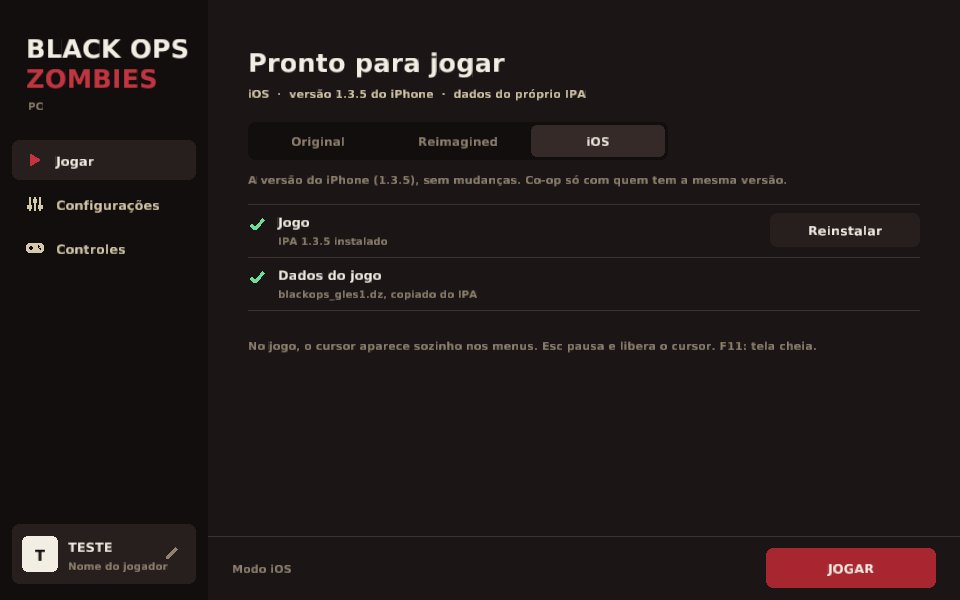
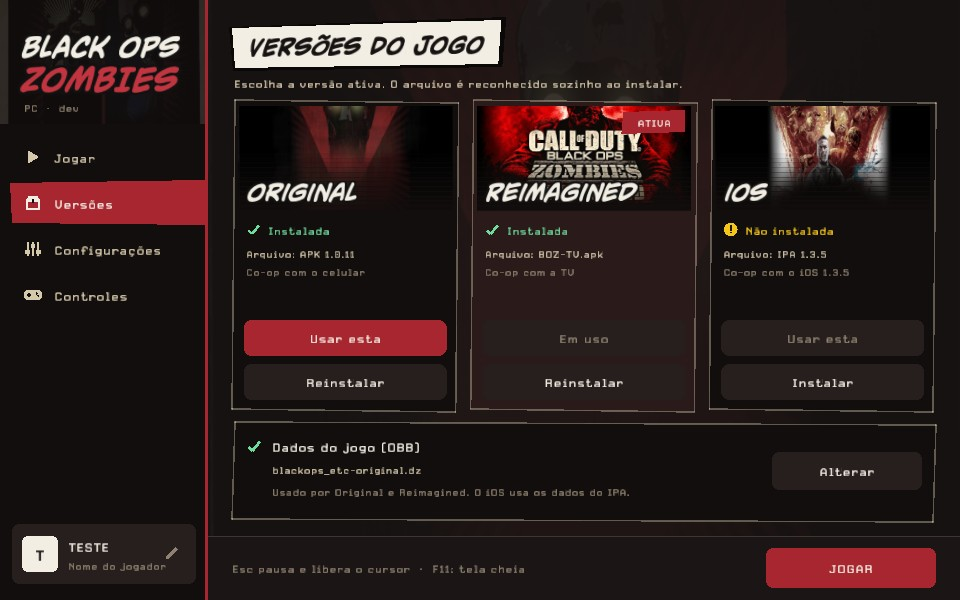
menus: voltar sai do lobby do coop e reconhecimento mais leve na TV
Remove a chave experimental do nome de sessão e atualiza a documentação para a v0.6.0.

diff --git a/tv/java/com/carlos/boz/Menus.java b/tv/java/com/carlos/boz/Menus.java
@@ -122,6 +122,8 @@ static boolean coopSession() { return s_CoopSession; }
             for (Screen s : m_Screens) if ("pausecoop".equals(s.id)) return s;
         return m_Current;
     }
+    private long m_RecNs;
+    private int m_RecCount;
     private boolean m_ReconnectDismissed;
     void allowReconnectConfirmation() { m_ReconnectDismissed = false; }
     void reconnectConfirmationChosen() {
@@ -303,7 +305,14 @@ static boolean coopSession() { return s_CoopSession; }
                 m_Bitmap.getPixels(px, 0, m_Bitmap.getWidth(), 0, 0, m_Bitmap.getWidth(), m_Bitmap.getHeight());
                 m_Px = px;
                 int[] gray = toGray(m_Bitmap);
+                long t0 = System.nanoTime();
                 Screen s = recognize(blur(gray));
+                m_RecNs += System.nanoTime() - t0;
+                if (++m_RecCount == 200) {
+                    Log.i(TAG, "Menus: reconhecimento médio " + (m_RecNs / 200000) + " us");
+                    m_RecCount = 0;
+                    m_RecNs = 0;
+                }
                 m_Main.post(() -> { setCurrent(s); capturePausePlayers(); });
             }, m_Copy);
         } catch (Exception e) {
@@ -385,10 +394,12 @@ static boolean coopSession() { return s_CoopSession; }
                 if (cx < 0 || cy < 0 || cx + pw > m_GW || cy + ph > m_GH) continue;
                 long sum = 0;
                 int k = 0;
-                for (int j = 0; j < ph; j++)
+                // para esta posição assim que ela não pode mais vencer: o mínimo final é o mesmo
+                final float limit = best * ref.length;
+                for (int j = 0; j < ph && sum < limit; j++)
                     for (int i = 0; i < pw; i++)
                         sum += Math.abs(g[(cy + j) * m_GW + cx + i] - ref[k++]);
-                best = Math.min(best, sum / (float) ref.length);
+                if (sum < limit) best = sum / (float) ref.length;
             }
         }
         return best;

diff --git a/tv/java/com/carlos/boz/Cursor.java b/tv/java/com/carlos/boz/Cursor.java
@@ -271,6 +271,10 @@ final class Cursor {
                     }
                     return true;
                 }
+                if ("cooplobby".equals(m_Menus.screenId()) || "coopvote".equals(m_Menus.screenId())) {
+                    if (down && repeat == 0) tapAt(285, 635);   // o lobby ignora a tecla de voltar: seta BACK
+                    return true;
+                }
                 if (down && repeat == 0) m_Menus.allowReconnectConfirmation();
                 if (m_SliderEdit) {          // B solta o slider em vez de voltar de tela
                     if (down && repeat == 0) endEdit();

diff --git a/src/emu_dynarmic.cpp b/src/emu_dynarmic.cpp
@@ -522,10 +522,6 @@ extern "C" void ret64(uint64_t value) {
     auto &r = current_jit().Regs();
     r[0] = static_cast<uint32_t>(value);
     r[1] = static_cast<uint32_t>(value >> 32);
-    /* Experimental (CODBOZ_SESSION_ZERO=1): BOZ formats its session name with "%s_%lu" and a 64-bit time on
-     * the stack, so %lu reads r3. On a real device that is 0 ("kino_0"); here it is leftover memory. */
-    static const bool session_zero = getenv("CODBOZ_SESSION_ZERO") != nullptr;
-    if (session_zero) r[3] = 0;
 }
 
 extern "C" void retf(float value) {

diff --git a/src/menus.c b/src/menus.c
@@ -1540,6 +1540,10 @@ bool menus_back(void) {
         input_tap(200, 633); /* the native RETURN */
         return true;
     }
+    if (strcmp(screen, "cooplobby") == 0 || strcmp(screen, "coopvote") == 0) {
+        input_tap(285, 635); /* the lobby ignores the back key: its BACK arrow */
+        return true;
+    }
     const struct style *s = style_of(screen);
     if (s && s->page) {
         for (int i = 0; i < g_target_count; ++i) {

diff --git a/README.pt-BR.md b/README.pt-BR.md
@@ -105,7 +105,7 @@ Jogue no **PC (Linux e Windows)** ou na **Android TV**, juntos no co-op, a parti
 1. Baixe em [**Releases**](https://github.com/chgmcontato/BOZ-Reimagined/releases/latest):
    - **Windows 10/11:** `codboz-pc-windows-x64.zip` (um `.exe`, sem DLLs extras)
    - **Linux:** `codboz-pc-linux-x86_64.tar.gz` (precisa do SDL2 e da glibc 2.38+)
-2. Abra. No launcher: **Install APK** (ou **Install IPA**) → **Choose** (Game data, o OBB) → **PLAY**. O launcher abre em inglês; troque para português em **Settings**.
+2. Abra. No launcher, abra a aba **Versões**: **Instalar** no cartão da versão (APK ou IPA) → **Selecionar** (OBB) → **JOGAR**. O launcher abre em inglês; troque para português em **Settings**.
 
 ```bash
 # Linux
@@ -143,7 +143,7 @@ Publique os dois pacotes na release `v<VERSION>` junto com o `SHA256SUMS.txt` (`
 
 ```bash
 # precisa de adb e xdelta3; TV com ADB pela rede ativado
-bash tv/instalar.sh <IP-da-TV> base.apk blackops_etc.dz boz-reimagined-tv-v0.4.xdelta
+bash tv/instalar.sh <IP-da-TV> base.apk blackops_etc.dz boz-reimagined-tv-v0.6.xdelta
 ```
 
 O patch só funciona sobre o APK original. Guia completo, incluindo co-op pelo ZeroTier, em [`tv/README.pt-BR.md`](tv/README.pt-BR.md).
@@ -215,6 +215,7 @@ de pause, T liga e desliga o timer. F11: tela cheia. F3: contador de FPS.
 <summary><b>Problemas conhecidos</b></summary>
 <br>
 
+- Co-op RE-JOIN: quem volta assiste como espectador até o próximo round, como no jogo; sem o host, o YES abre um lobby próprio.
 - Windows: testado no Wine (menus, uma partida de Call of the Dead, 60 fps); ainda não em Windows de verdade, co-op não testado lá.
 - Save & Quit → Continue não restaura o timer da partida.
 - Modo iOS: o primeiro clique depois da tela de título é ignorado (clique de novo); `s3eInetPton` ainda é um stub.

diff --git a/README.md b/README.md
@@ -105,7 +105,7 @@ Play on **PC (Linux & Windows)** or **Android TV**, together in co-op, from your
 1. Download from [**Releases**](https://github.com/chgmcontato/BOZ-Reimagined/releases/latest):
    - **Windows 10/11:** `codboz-pc-windows-x64.zip` (one `.exe`, no extra DLLs)
    - **Linux:** `codboz-pc-linux-x86_64.tar.gz` (needs SDL2 and glibc 2.38+)
-2. Run it. In the launcher: **Install APK** (or **Install IPA**) → **Choose** (Game data) → **PLAY**.
+2. Run it. In the launcher, open the **Versions** tab: **Install** on the version card (APK or IPA) → **Choose** (OBB) → **PLAY**.
 
 ```bash
 # Linux
@@ -143,7 +143,7 @@ Publish both archives in the release `v<VERSION>` together with `SHA256SUMS.txt`
 
 ```bash
 # needs adb and xdelta3; TV with ADB over network enabled
-bash tv/instalar.sh <TV-IP> base.apk blackops_etc.dz boz-reimagined-tv-v0.4.xdelta
+bash tv/instalar.sh <TV-IP> base.apk blackops_etc.dz boz-reimagined-tv-v0.6.xdelta
 ```
 
 The patch only works on top of the original APK. Full guide, including co-op over ZeroTier, in [`tv/README.md`](tv/README.md) · [português](tv/README.pt-BR.md).
@@ -215,6 +215,7 @@ On the pause screen, T toggles the match timer. F11: fullscreen. F3: FPS counter
 <summary><b>Known issues</b></summary>
 <br>
 
+- Co-op RE-JOIN: a returning player spectates until the next round, as in the game; with no host, YES opens a new lobby.
 - Windows: tested under Wine (menus, a Call of the Dead match, 60 fps); not yet on real Windows, co-op untested there.
 - Save & Quit → Continue does not restore the match timer.
 - iOS mode: the first click after the title screen is ignored (click again); `s3eInetPton` is still a stub.

diff --git a/tv/README.md b/tv/README.md
@@ -85,7 +85,7 @@ You need the original APK and OBB (table above), a PC with `adb` and `xdelta3`, 
    APK, turning it into the Reimagined APK.
 3. Run:
    ```bash
-   bash instalar.sh <TV-IP> base.apk blackops_etc.dz boz-reimagined-tv-v0.4.xdelta
+   bash instalar.sh <TV-IP> base.apk blackops_etc.dz boz-reimagined-tv-v0.6.xdelta
    ```
    The script checks the hashes, applies the patch, installs the APK and copies the OBB to
    `/storage/emulated/0/Android/obb/com.activision.boz/`. The first time you connect, the TV may ask you to authorize the PC.

diff --git a/tv/README.pt-BR.md b/tv/README.pt-BR.md
@@ -85,7 +85,7 @@ Você precisa do APK e do OBB originais (tabela acima), de um PC com `adb` e `xd
    APK original e transforma esse APK no APK do Reimagined.
 3. Rode:
    ```bash
-   bash instalar.sh <IP-da-TV> base.apk blackops_etc.dz boz-reimagined-tv-v0.4.xdelta
+   bash instalar.sh <IP-da-TV> base.apk blackops_etc.dz boz-reimagined-tv-v0.6.xdelta
    ```
    O script confere os hashes, aplica o patch, instala o APK e copia o OBB para
    `/storage/emulated/0/Android/obb/com.activision.boz/`. Na primeira vez, a TV pode pedir para autorizar o PC.
